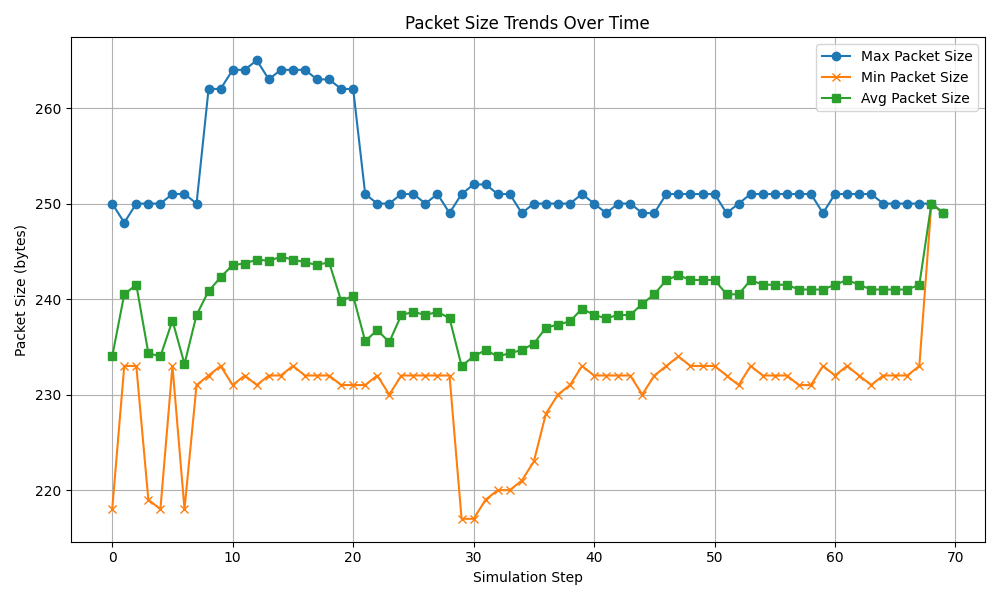
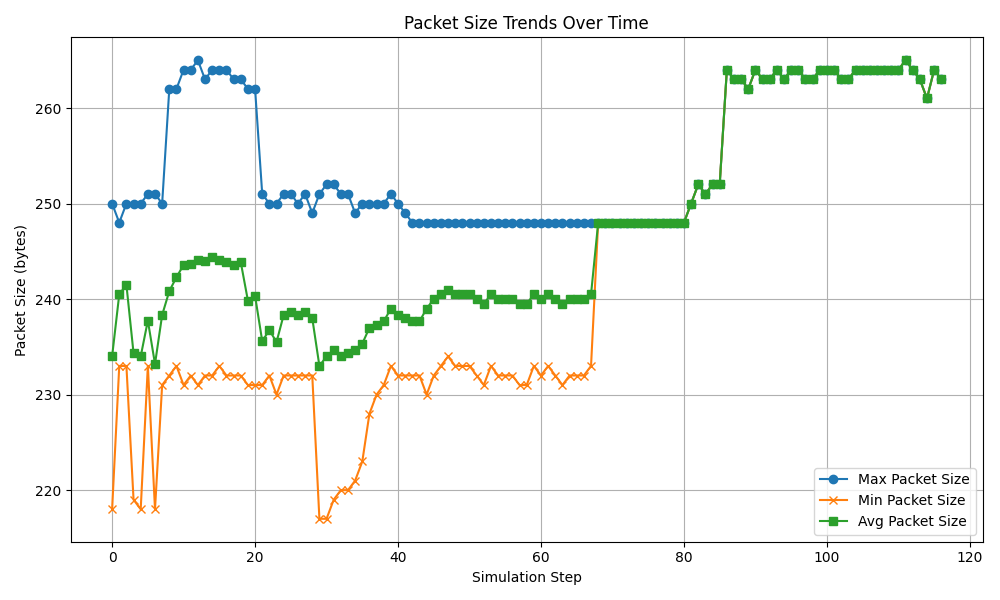
minor changes

diff --git a/V2V/python/vehicle/vehicle.py b/V2V/python/vehicle/vehicle.py
@@ -1,5 +1,3 @@
-# vehicle.py - Enhanced Vehicle Class with Improved V2V Intersection Behavior
-
 import traci
 import math
 import json
@@ -123,8 +121,8 @@ class Vehicle:
                         print(f"{self.vehicle_id} WAIT — conflict with {other.vehicle_id} already in intersection.")
                         return packet_size
 
-        # Step 2: Once I'm INSIDE the intersection, NEVER STOP ME
-        # -> No action needed here — we just don’t let others stop us
+        # Step 2: Once the vehicle is INSIDE the intersection, NEVER STOP IT
+        # -> No action needed
 
         # Step 3: Local edge-based safety (rear-end logic)
         nearby_vehicles = []
@@ -174,11 +172,11 @@ class Vehicle:
 
     def handle_unexpected_event(self, event_type="full_block", lane_name = ''):
         lane_edge = lane_name.split('_')[0] if lane_name else ''
-        my_edge = self.edge_id  # already set in update()
+        my_edge = self.edge_id  
         print(f'lane_name={lane_name}, self.current_lane={self.current_lane}')
         # Some junction/internal lanes start with ":" – treat those as same edge context
         def same_edge():
-            # If I'm on an internal lane, SUMO often still sets edge_id to the
+            # If the vehicle is on an internal lane, SUMO often still sets edge_id to the
             # connected edge; if not, fall back to startswith check against lane_edge
             return (my_edge == lane_edge) or my_edge.startswith(lane_edge)
 
@@ -189,21 +187,22 @@ class Vehicle:
         elif event_type == "lane_block" and (lane_name == self.current_lane or same_edge()):
             print('lane_block here.')
             self.lane_blocked = True
+            self.lane_blocked_number = lane_name.split('_')[1] if lane_name.split('_')[1] else ''
 
     def _stop_and_wait(self):
         traci.vehicle.setSpeed(self.vehicle_id, 0)
         print(f"{self.vehicle_id} stopped for full blockage")
 
     def _change_lane(self):
-        lane_index = traci.vehicle.getLaneIndex(self.vehicle_id)
         num_lanes = traci.edge.getLaneNumber(self.edge_id)
-        if num_lanes > 1:
-            alt_lane = 1 - lane_index if num_lanes == 2 else (lane_index + 1) % num_lanes
-            try:
-                traci.vehicle.changeLane(self.vehicle_id, alt_lane, 25.0)
-                print(f"{self.vehicle_id} switched to lane {alt_lane}")
-            except traci.TraCIException as e:
-                print(f"Lane change failed for {self.vehicle_id}: {e}")
+        for number in range(num_lanes-1):
+            if number != self.lane_blocked_number:
+                try:
+                    traci.vehicle.changeLane(self.vehicle_id, number, 25.0)
+                    print(f"{self.vehicle_id} switched to lane {number}")
+                    break
+                except traci.TraCIException as e:
+                    print(f"Lane change failed for {self.vehicle_id}: {e}")
 
     def _is_on_same_edge(self, other):
         return self.edge_id == other.edge_id

diff --git a/V2I/python/sumo_run_v2i.py b/V2I/python/sumo_run_v2i.py
@@ -1,5 +1,3 @@
-# sumo_run_v2i.py - Enhanced V2I Simulation Controller
-
 import tabulate
 import traci
 from vehicle.vehicle_v2i import MessagePacket, VehicleV2I
@@ -30,7 +28,6 @@ def run_simulation():
                 vehicle_objects[vid].update()
 
         active_vehicles = {vid: vehicle_objects[vid] for vid in current_ids}
-        active_vehicles = {vid: vehicle_objects[vid] for vid in current_ids}
 
         for vid, v in active_vehicles.items():
             intersection_manager.register_vehicle(vid, v.report_state())
@@ -41,9 +38,9 @@ def run_simulation():
             # if (20 < step) and (step < 30):
             #     print("[EVENT] Full path blockage!")
             #     v.handle_unexpected_event("full_block",'41224286#1')
-            # if (10 < step) and (step < 50):
-            #     print("[EVENT] One lane blocked!")
-            #     v.handle_unexpected_event("lane_block", '35174151#1_1')
+            if (10 < step) and (step < 50):
+                print("[EVENT] One lane blocked!")
+                v.handle_unexpected_event("lane_block", '35174151#1_1')
             v.apply_decision(decisions[vid])
             step_packet_sizes.append(v.estimate_packet_payload_size())
             packet_sizes.append(v.estimate_packet_payload_size())

diff --git a/V2V/python/sumo_run.py b/V2V/python/sumo_run.py
@@ -1,6 +1,4 @@
 
-# sumo_run.py - Enhanced V2V Simulation Controller
-
 import traci
 from vehicle.vehicle import Vehicle
 from vehicle.vehicle import MessagePacket
@@ -36,9 +34,9 @@ def run_simulation():
         active_vehicles = {vid: vehicle_objects[vid] for vid in current_ids}
         step_packet_sizes = []
         for v in active_vehicles.values():
-            # if (step > 40) and (step < 80):
-            #     print("[EVENT] Full path blockage!")
-            #     v.handle_unexpected_event("full_block",'41224286#1')
+            if (step > 40) and (step < 80):
+                print("[EVENT] Full path blockage!")
+                v.handle_unexpected_event("full_block",'41224286#1')
             # if (step > 10) and (step < 70):
             #     print("[EVENT] One lane blocked!")
             #     v.handle_unexpected_event("lane_block", '35174151#1_1')

diff --git a/V2I/python/intersection_manager.py b/V2I/python/intersection_manager.py
@@ -17,7 +17,7 @@ class IntersectionManager:
 
         if not approaching:
             return {vid: 'go' for vid in self.vehicle_states}
-
+        # print('approaching.items()', approaching.items())
         # Choose one to go
         sorted_approaching = sorted(approaching.items(), key=lambda item: item[1]['lane_pos'])
         allowed_vid = sorted_approaching[0][0]
